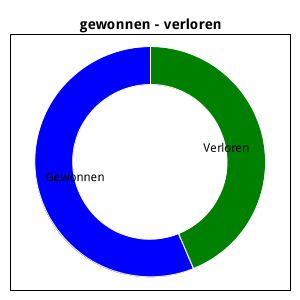
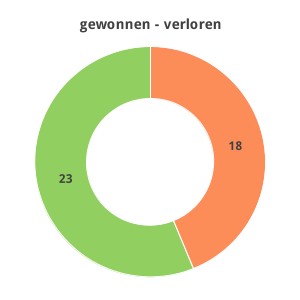
layout work

diff --git a/statistics/src/main/java/de/edgesoft/statistics/controller/AppLayoutController.java b/statistics/src/main/java/de/edgesoft/statistics/controller/AppLayoutController.java
@@ -22,12 +22,9 @@ import org.knowm.xchart.BitmapEncoder;
 import org.knowm.xchart.BitmapEncoder.BitmapFormat;
 import org.knowm.xchart.PieChart;
 import org.knowm.xchart.PieSeries;
-import org.knowm.xchart.style.PieStyler.AnnotationType;
 import org.odftoolkit.simple.SpreadsheetDocument;
 import org.odftoolkit.simple.table.Row;
 import org.odftoolkit.simple.table.Table;
-
-import com.sun.javafx.scene.control.behavior.OptionalBoolean;
 
 import de.edgesoft.edgeutils.datetime.DateTimeUtils;
 import de.edgesoft.edgeutils.xchart.ChartFactory;
@@ -223,6 +220,11 @@ public class AppLayoutController {
 			handleProgramExit();
 		});
 
+
+		// testing
+		handleCreateStatistics();
+		handleProgramExit();
+
 	}
 
 	/**
@@ -300,17 +302,27 @@ public class AppLayoutController {
 		List<Match> lstMatches = theContent.getSeason().get(theContent.getSeason().size() - 1).getMatch();
 
 		// wins - losses
+		PieSeries[] arrSeries = new PieSeries[2];
+		int iValue = lstMatches.stream().filter(match -> match.getSetResult().getWon().getValue()).collect(Collectors.toList()).size();
+		arrSeries[0] = new PieSeries(String.format("%d", iValue), iValue);
+		iValue = lstMatches.size() - iValue;
+		arrSeries[1] = new PieSeries(String.format("%d", iValue), iValue);
+
 		writePieChart(Paths.get(pathOut.toString(), String.format("%s.png", "win-loss")),
 				"gewonnen - verloren",
-				new PieSeries("Gewonnen", lstMatches.stream().filter(match -> match.getSetResult().getWon().getValue()).collect(Collectors.toList()).size()),
-				new PieSeries("Verloren", lstMatches.stream().filter(match -> !match.getSetResult().getWon().getValue()).collect(Collectors.toList()).size())
+				arrSeries
 				);
 
 		// home/off
+		arrSeries = new PieSeries[2];
+		iValue = lstMatches.stream().filter(match -> match.getHome().getValue()).collect(Collectors.toList()).size();
+		arrSeries[0] = new PieSeries(String.format("%d", iValue), iValue);
+		iValue = lstMatches.size() - iValue;
+		arrSeries[1] = new PieSeries(String.format("%d", iValue), iValue);
+
 		writePieChart(Paths.get(pathOut.toString(), String.format("%s.png", "home-off")),
 				"Heim - Auswärts",
-				new PieSeries("Heim", lstMatches.stream().filter(match -> match.getHome().getValue()).collect(Collectors.toList()).size()),
-				new PieSeries("Auswärts", lstMatches.stream().filter(match -> !match.getHome().getValue()).collect(Collectors.toList()).size())
+				arrSeries
 				);
 
 	}
